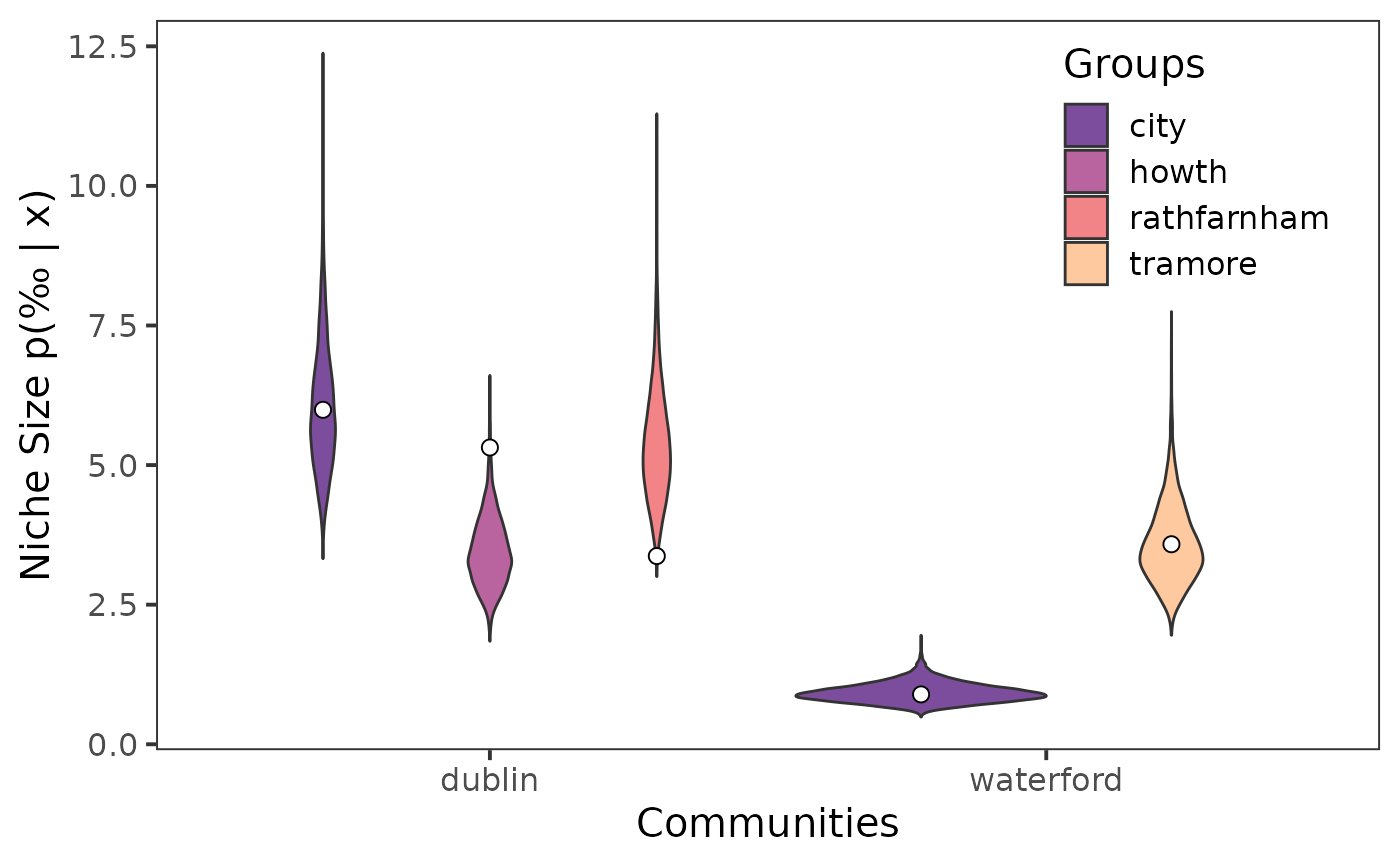
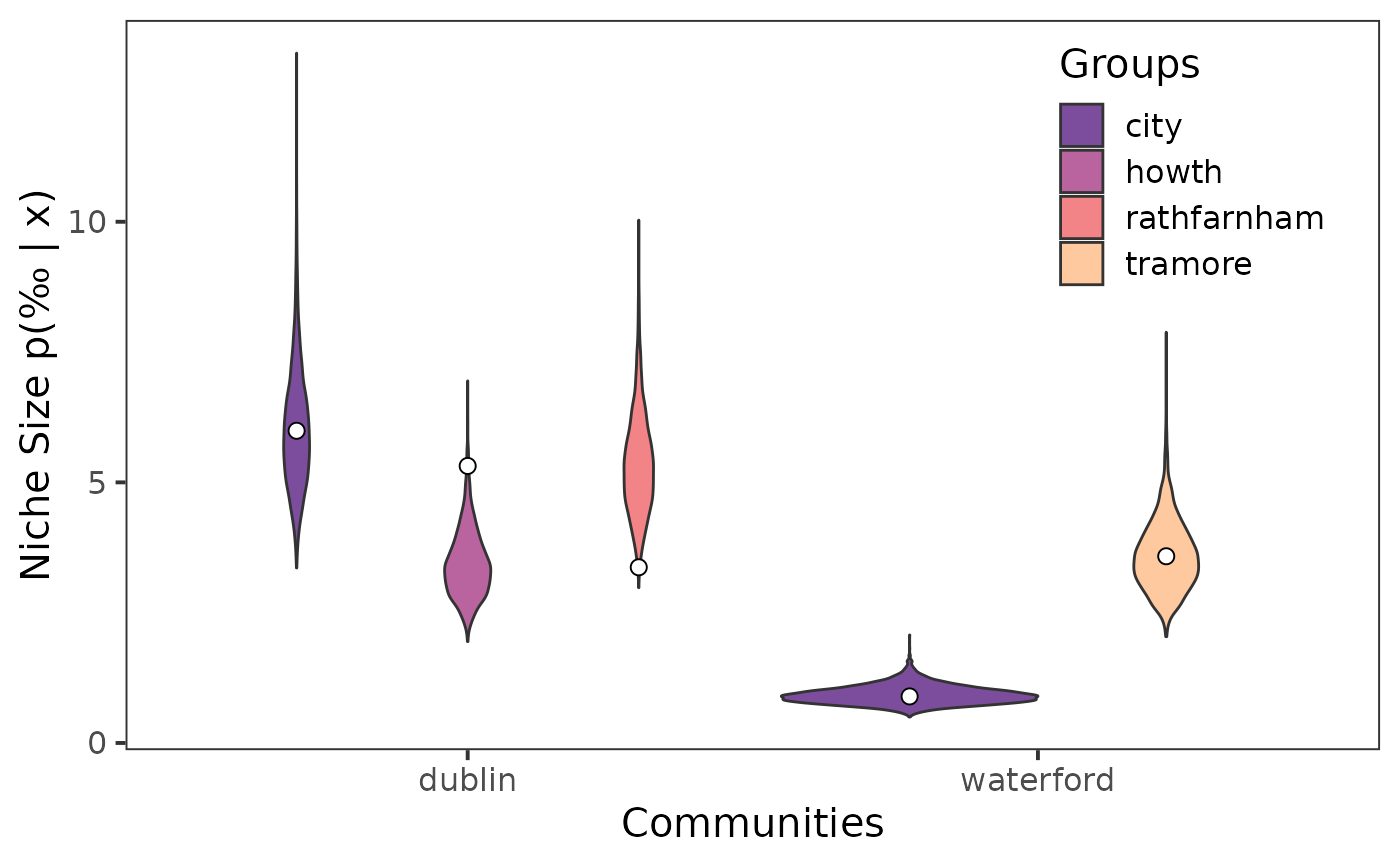
Deploying to gh-pages from @ benjaminhlina/nichetools@8bf8e879092a9470661db9cda79c00ba7678f4df 🚀

diff --git a/articles/using-nichetools-with-the-package-SIBER.html b/articles/using-nichetools-with-the-package-SIBER.html
@@ -102,12 +102,14 @@ which is great when working with large data sets.</p>
 <span>  <span class="kw"><a href="https://rdrr.io/r/base/library.html" class="external-link">library</a></span><span class="op">(</span><span class="va"><a href="https://easystats.github.io/bayestestR/" class="external-link">bayestestR</a></span><span class="op">)</span></span>
 <span>  <span class="kw"><a href="https://rdrr.io/r/base/library.html" class="external-link">library</a></span><span class="op">(</span><span class="va"><a href="https://dplyr.tidyverse.org" class="external-link">dplyr</a></span><span class="op">)</span></span>
 <span>  <span class="kw"><a href="https://rdrr.io/r/base/library.html" class="external-link">library</a></span><span class="op">(</span><span class="va"><a href="https://ggplot2.tidyverse.org" class="external-link">ggplot2</a></span><span class="op">)</span></span>
+<span>  <span class="kw"><a href="https://rdrr.io/r/base/library.html" class="external-link">library</a></span><span class="op">(</span><span class="va"><a href="https://mjskay.github.io/ggdist/" class="external-link">ggdist</a></span><span class="op">)</span></span>
 <span>  <span class="kw"><a href="https://rdrr.io/r/base/library.html" class="external-link">library</a></span><span class="op">(</span><span class="va"><a href="https://wilkelab.org/ggtext/" class="external-link">ggtext</a></span><span class="op">)</span></span>
 <span>  <span class="kw"><a href="https://rdrr.io/r/base/library.html" class="external-link">library</a></span><span class="op">(</span><span class="va"><a href="https://benjaminhlina.github.io/nichetools/">nichetools</a></span><span class="op">)</span></span>
 <span>  <span class="kw"><a href="https://rdrr.io/r/base/library.html" class="external-link">library</a></span><span class="op">(</span><span class="va"><a href="https://patchwork.data-imaginist.com" class="external-link">patchwork</a></span><span class="op">)</span></span>
 <span>  <span class="kw"><a href="https://rdrr.io/r/base/library.html" class="external-link">library</a></span><span class="op">(</span><span class="va"><a href="https://purrr.tidyverse.org/" class="external-link">purrr</a></span><span class="op">)</span></span>
 <span>  <span class="kw"><a href="https://rdrr.io/r/base/library.html" class="external-link">library</a></span><span class="op">(</span><span class="va">SIBER</span><span class="op">)</span></span>
 <span>  <span class="kw"><a href="https://rdrr.io/r/base/library.html" class="external-link">library</a></span><span class="op">(</span><span class="va"><a href="https://tidyr.tidyverse.org" class="external-link">tidyr</a></span><span class="op">)</span></span>
+<span>  <span class="kw"><a href="https://rdrr.io/r/base/library.html" class="external-link">library</a></span><span class="op">(</span><span class="va"><a href="https://sjmgarnier.github.io/viridis/" class="external-link">viridis</a></span><span class="op">)</span></span>
 <span><span class="op">}</span></span></code></pre></div>
 <p>For the purpose of the vignette we will be using the
 <code>demo.siber.data.2</code> data frame that is available within
@@ -397,7 +399,7 @@ level of the ellipse you can do so using the argument
 <span>    x <span class="op">=</span> <span class="fu"><a href="https://rdrr.io/r/base/expression.html" class="external-link">expression</a></span><span class="op">(</span><span class="fu"><a href="https://rdrr.io/r/base/paste.html" class="external-link">paste</a></span><span class="op">(</span><span class="va">delta</span><span class="op">^</span><span class="fl">13</span>,<span class="st">"C (‰)"</span><span class="op">)</span><span class="op">)</span>, </span>
 <span>    y <span class="op">=</span> <span class="fu"><a href="https://rdrr.io/r/base/expression.html" class="external-link">expression</a></span><span class="op">(</span><span class="fu"><a href="https://rdrr.io/r/base/paste.html" class="external-link">paste</a></span><span class="op">(</span><span class="va">delta</span><span class="op">^</span><span class="fl">15</span>,<span class="st">"N (‰)"</span><span class="op">)</span><span class="op">)</span> </span>
 <span>  <span class="op">)</span></span></code></pre></div>
-<p><img src="using-nichetools-with-the-package-SIBER_files/figure-html/unnamed-chunk-17-1.png" width="700"></p>
+<p><img src="using-nichetools-with-the-package-SIBER_files/figure-html/unnamed-chunk-17-1.png" width="100%"></p>
 </div>
 <div class="section level3">
 <h3 id="extract-niche-size">Extract Niche Size<a class="anchor" aria-label="anchor" href="#extract-niche-size"></a>
@@ -458,15 +460,91 @@ ellipse area (SEA), central standard ellipse area (SEAc), and total area
 <span>  <span class="fu"><a href="https://ggplot2.tidyverse.org/reference/labs.html" class="external-link">labs</a></span><span class="op">(</span></span>
 <span>    x <span class="op">=</span> <span class="st">"Communities"</span>, </span>
 <span>    y <span class="op">=</span> <span class="st">"Niche Size p(‰ | x)"</span><span class="op">)</span> </span></code></pre></div>
-<p><img src="using-nichetools-with-the-package-SIBER_files/figure-html/unnamed-chunk-23-1.png" width="700"></p>
+<p><img src="using-nichetools-with-the-package-SIBER_files/figure-html/unnamed-chunk-23-1.png" width="100%"></p>
 </div>
 <div class="section level3">
 <h3 id="niche-similarties">Niche Similarties<a class="anchor" aria-label="anchor" href="#niche-similarties"></a>
 </h3>
 </div>
 <div class="section level3">
-<h3 id="bayesian-estimates-of-community-metrics">Bayesian Estimates of Community Metrics<a class="anchor" aria-label="anchor" href="#bayesian-estimates-of-community-metrics"></a>
+<h3 id="bayesian-estimates-of-laymans-community-metrics">Bayesian Estimates of Layman’s Community Metrics<a class="anchor" aria-label="anchor" href="#bayesian-estimates-of-laymans-community-metrics"></a>
 </h3>
+<p>First I highly recommend reading <a href="https://esajournals.onlinelibrary.wiley.com/doi/abs/10.1890/0012-9658%282007%2988%5B42%3ACSIRPF%5D2.0.CO%3B2" class="external-link">Post
+et al. 2007</a> to understand the following six community metrics, that
+we are going to estimate using a Bayesian framework.</p>
+<p>To create Bayesian estiamtes of Layman’s community metrics we first
+need to use <code><a href="https://rdrr.io/pkg/SIBER/man/extractPosteriorMeans.html" class="external-link">extractPosteriorMeans()</a></code> from
+<code>{SIBER}</code> to extract posterior estimates of means for each
+community and group.</p>
+<div class="sourceCode" id="cb23"><pre class="downlit sourceCode r">
+<code class="sourceCode R"><span><span class="va">mu_post</span> <span class="op">&lt;-</span> <span class="fu"><a href="https://rdrr.io/pkg/SIBER/man/extractPosteriorMeans.html" class="external-link">extractPosteriorMeans</a></span><span class="op">(</span><span class="va">siber_example</span>, <span class="va">ellipses_posterior</span><span class="op">)</span></span></code></pre></div>
+<p>Next we need to use <code><a href="https://rdrr.io/pkg/SIBER/man/bayesianLayman.html" class="external-link">bayesianLayman()</a></code> from
+<code>{SIBER}</code> and use our extracted posterior means to create
+Bayesian estiamtes for each community metric.</p>
+<div class="sourceCode" id="cb24"><pre class="downlit sourceCode r">
+<code class="sourceCode R"><span><span class="va">layman_b</span> <span class="op">&lt;-</span> <span class="fu"><a href="https://rdrr.io/pkg/SIBER/man/bayesianLayman.html" class="external-link">bayesianLayman</a></span><span class="op">(</span>mu.post <span class="op">=</span> <span class="va">mu_post</span><span class="op">)</span></span></code></pre></div>
+<p>Once we have created our Bayesian estimates for each community metric
+we can use <code><a href="../reference/extract_layman.html">extract_layman()</a></code> to extract these estimates. We
+will also create the variable <code>labels</code> which will first
+assign a new name to each community metric and secondly will reorder
+these names based on how these metrics are often viewed.</p>
+<div class="sourceCode" id="cb25"><pre class="downlit sourceCode r">
+<code class="sourceCode R"><span><span class="va">layman_bc</span> <span class="op">&lt;-</span> <span class="fu"><a href="../reference/extract_layman.html">extract_layman</a></span><span class="op">(</span><span class="va">layman_b</span>, community_df <span class="op">=</span> <span class="va">c_names</span><span class="op">)</span> <span class="op"><a href="https://magrittr.tidyverse.org/reference/pipe.html" class="external-link">%&gt;%</a></span> </span>
+<span>   <span class="fu"><a href="https://dplyr.tidyverse.org/reference/mutate.html" class="external-link">mutate</a></span><span class="op">(</span></span>
+<span>    labels <span class="op">=</span> <span class="fu"><a href="https://rdrr.io/r/base/factor.html" class="external-link">factor</a></span><span class="op">(</span><span class="fu"><a href="https://dplyr.tidyverse.org/reference/case_when.html" class="external-link">case_when</a></span><span class="op">(</span></span>
+<span>      <span class="va">metric</span> <span class="op"><a href="https://rdrr.io/r/base/match.html" class="external-link">%in%</a></span> <span class="st">"dX_range"</span> <span class="op">~</span> <span class="fu"><a href="https://rdrr.io/r/base/paste.html" class="external-link">paste0</a></span><span class="op">(</span><span class="st">"\U03B4"</span>,<span class="st">"&lt;sup&gt;"</span>, <span class="fl">13</span>, <span class="st">"&lt;/sup&gt;"</span>,</span>
+<span>                                      <span class="st">"C&lt;br&gt;Range"</span><span class="op">)</span>,</span>
+<span>      <span class="va">metric</span> <span class="op"><a href="https://rdrr.io/r/base/match.html" class="external-link">%in%</a></span> <span class="st">"dY_range"</span> <span class="op">~</span> <span class="fu"><a href="https://rdrr.io/r/base/paste.html" class="external-link">paste0</a></span><span class="op">(</span><span class="st">"\U03B4"</span>,<span class="st">"&lt;sup&gt;"</span>, <span class="fl">15</span>, <span class="st">"&lt;/sup&gt;"</span>,</span>
+<span>                                      <span class="st">"N&lt;br&gt;Range"</span><span class="op">)</span>,</span>
+<span>      <span class="va">metric</span> <span class="op"><a href="https://rdrr.io/r/base/match.html" class="external-link">%in%</a></span> <span class="st">"TA"</span> <span class="op">~</span> <span class="st">"Total Area"</span>,</span>
+<span>      <span class="va">metric</span> <span class="op"><a href="https://rdrr.io/r/base/match.html" class="external-link">%in%</a></span> <span class="st">"CD"</span> <span class="op">~</span> <span class="st">"Distance to&lt;br&gt;Centroid"</span>,</span>
+<span>      <span class="va">metric</span> <span class="op"><a href="https://rdrr.io/r/base/match.html" class="external-link">%in%</a></span> <span class="st">"NND"</span> <span class="op">~</span> <span class="st">"Nearest&lt;br&gt;Neighbor&lt;br&gt;Distance"</span>,</span>
+<span>      <span class="va">metric</span> <span class="op"><a href="https://rdrr.io/r/base/match.html" class="external-link">%in%</a></span> <span class="st">"SDNND"</span> <span class="op">~</span> <span class="st">"SD Nearest&lt;br&gt;Neighbor&lt;br&gt;Distance"</span>,</span>
+<span>    <span class="op">)</span>,</span>
+<span>    levels <span class="op">=</span> <span class="fu"><a href="https://rdrr.io/r/base/c.html" class="external-link">c</a></span><span class="op">(</span><span class="st">"\U03B4&lt;sup&gt;13&lt;/sup&gt;C&lt;br&gt;Range"</span>,</span>
+<span>               <span class="st">"\U03B4&lt;sup&gt;15&lt;/sup&gt;N&lt;br&gt;Range"</span>,</span>
+<span>               <span class="st">"Total Area"</span>,</span>
+<span>               <span class="st">"Distance to&lt;br&gt;Centroid"</span>,</span>
+<span>               <span class="st">"Nearest&lt;br&gt;Neighbor&lt;br&gt;Distance"</span>,</span>
+<span>               <span class="st">"SD Nearest&lt;br&gt;Neighbor&lt;br&gt;Distance"</span><span class="op">)</span></span>
+<span>    <span class="op">)</span></span>
+<span>  <span class="op">)</span></span></code></pre></div>
+<p>Prior to using point interval plots we need to create a colour
+palette that will be used to identify each community.</p>
+<div class="sourceCode" id="cb26"><pre class="downlit sourceCode r">
+<code class="sourceCode R"><span><span class="va">viridis_colors</span> <span class="op">&lt;-</span> <span class="fu"><a href="https://sjmgarnier.github.io/viridisLite/reference/viridis.html" class="external-link">viridis</a></span><span class="op">(</span><span class="fl">2</span>, begin <span class="op">=</span> <span class="fl">0.25</span>, end <span class="op">=</span> <span class="fl">0.85</span>,</span>
+<span>                          option <span class="op">=</span> <span class="st">"G"</span>,</span>
+<span>                          alpha <span class="op">=</span> <span class="fl">0.75</span></span>
+<span><span class="op">)</span></span></code></pre></div>
+<p>Lastly, we can visualize the distributions of the posterior estimates
+using <code><a href="http://mjskay.github.io/ggdist/reference/stat_pointinterval.html" class="external-link">stat_pointinterval()</a></code> from {ggdist}.</p>
+<div class="sourceCode" id="cb27"><pre class="downlit sourceCode r">
+<code class="sourceCode R"><span><span class="fu"><a href="https://ggplot2.tidyverse.org/reference/ggplot.html" class="external-link">ggplot</a></span><span class="op">(</span>data <span class="op">=</span> <span class="va">layman_bc</span>, <span class="fu"><a href="https://ggplot2.tidyverse.org/reference/aes.html" class="external-link">aes</a></span><span class="op">(</span>x <span class="op">=</span> <span class="va">labels</span>, </span>
+<span>                             y <span class="op">=</span> <span class="va">post_est</span>, </span>
+<span>                             point_fill <span class="op">=</span> <span class="va">community_name</span><span class="op">)</span><span class="op">)</span> <span class="op">+</span> </span>
+<span>  <span class="fu"><a href="http://mjskay.github.io/ggdist/reference/stat_pointinterval.html" class="external-link">stat_pointinterval</a></span><span class="op">(</span></span>
+<span>    point_size <span class="op">=</span> <span class="fl">4</span>,</span>
+<span>    interval_colour <span class="op">=</span> <span class="st">"grey60"</span>,</span>
+<span>    position <span class="op">=</span> <span class="fu"><a href="https://ggplot2.tidyverse.org/reference/position_dodge.html" class="external-link">position_dodge</a></span><span class="op">(</span><span class="fl">0.4</span><span class="op">)</span>,</span>
+<span>    shape <span class="op">=</span> <span class="fl">21</span></span>
+<span>  <span class="op">)</span> <span class="op">+</span> </span>
+<span>  <span class="fu"><a href="https://ggplot2.tidyverse.org/reference/scale_manual.html" class="external-link">scale_fill_manual</a></span><span class="op">(</span>name <span class="op">=</span> <span class="st">"Community"</span>, </span>
+<span>                    aesthetics <span class="op">=</span> <span class="st">"point_fill"</span>,</span>
+<span>                    values <span class="op">=</span> <span class="va">viridis_colors</span><span class="op">)</span> <span class="op">+</span> </span>
+<span>  <span class="fu"><a href="https://ggplot2.tidyverse.org/reference/ggtheme.html" class="external-link">theme_bw</a></span><span class="op">(</span></span>
+<span>    base_size <span class="op">=</span> <span class="fl">15</span></span>
+<span>  <span class="op">)</span> <span class="op">+</span> </span>
+<span>  <span class="fu"><a href="https://ggplot2.tidyverse.org/reference/theme.html" class="external-link">theme</a></span><span class="op">(</span></span>
+<span>    panel.grid <span class="op">=</span> <span class="fu"><a href="https://ggplot2.tidyverse.org/reference/element.html" class="external-link">element_blank</a></span><span class="op">(</span><span class="op">)</span>,</span>
+<span>    axis.text <span class="op">=</span> <span class="fu"><a href="https://wilkelab.org/ggtext/reference/element_markdown.html" class="external-link">element_markdown</a></span><span class="op">(</span><span class="op">)</span>,</span>
+<span>    legend.position <span class="op">=</span> <span class="st">"inside"</span>,</span>
+<span>    legend.position.inside <span class="op">=</span> <span class="fu"><a href="https://rdrr.io/r/base/c.html" class="external-link">c</a></span><span class="op">(</span><span class="fl">0.85</span>, <span class="fl">0.86</span><span class="op">)</span>,</span>
+<span>  <span class="op">)</span> <span class="op">+</span></span>
+<span>  <span class="fu"><a href="https://ggplot2.tidyverse.org/reference/labs.html" class="external-link">labs</a></span><span class="op">(</span></span>
+<span>    x <span class="op">=</span> <span class="st">"Community Metrics"</span>,</span>
+<span>    y <span class="op">=</span> <span class="fu"><a href="https://rdrr.io/r/base/expression.html" class="external-link">expression</a></span><span class="op">(</span><span class="fu"><a href="https://rdrr.io/r/base/paste.html" class="external-link">paste</a></span><span class="op">(</span><span class="st">"p("</span>, <span class="st">"‰"</span>, <span class="st">"|X)"</span><span class="op">)</span><span class="op">)</span></span>
+<span>  <span class="op">)</span></span></code></pre></div>
+<p><img src="using-nichetools-with-the-package-SIBER_files/figure-html/unnamed-chunk-28-1.png" width="100%"></p>
 </div>
   </main><aside class="col-md-3"><nav id="toc" aria-label="Table of contents"><h2>On this page</h2>
     </nav></aside>

diff --git a/reference/niche_ellipse.html b/reference/niche_ellipse.html
@@ -133,7 +133,7 @@ and <code><a href="extract_sigma.html">extract_sigma()</a></code></p></div>
     <h2 id="ref-examples">Examples<a class="anchor" aria-label="anchor" href="#ref-examples"></a></h2>
     <div class="sourceCode"><pre class="sourceCode r"><code><span class="r-in"><span><span class="fu">niche_ellipse</span><span class="op">(</span>dat_mu <span class="op">=</span> <span class="va">mu_est_long</span>,</span></span>
 <span class="r-in"><span>              dat_sigma <span class="op">=</span> <span class="va">sigma_est_wide</span><span class="op">)</span></span></span>
-<span class="r-msg co"><span class="r-pr">#&gt;</span> → Total time processing was 0.06 secs</span>
+<span class="r-msg co"><span class="r-pr">#&gt;</span> → Total time processing was 0.08 secs</span>
 <span class="r-out co"><span class="r-pr">#&gt;</span> <span style="color: #949494;"># A tibble: 4,000 × 4</span></span>
 <span class="r-out co"><span class="r-pr">#&gt;</span>    sample_name sample_number  d13c  d15n</span>
 <span class="r-out co"><span class="r-pr">#&gt;</span>    <span style="color: #949494; font-style: italic;">&lt;chr&gt;</span>               <span style="color: #949494; font-style: italic;">&lt;dbl&gt;</span> <span style="color: #949494; font-style: italic;">&lt;dbl&gt;</span> <span style="color: #949494; font-style: italic;">&lt;dbl&gt;</span></span>
